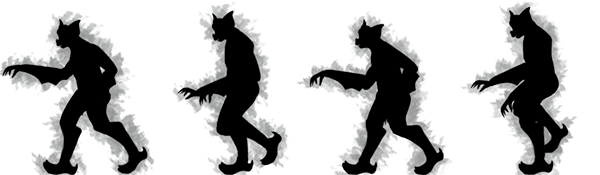
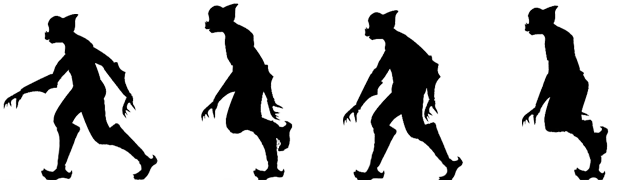
Nueva tira de enemigo

diff --git a/core/src/itesm/mx/whacamole/Enemigo.java b/core/src/itesm/mx/whacamole/Enemigo.java
@@ -42,7 +42,7 @@ public class Enemigo
         // Lee la textura como región
         TextureRegion texturaCompleta = new TextureRegion(textura);
         // La divide en frames de 16x32 (ver marioSprite.png)
-        TextureRegion[][] texturaPersonaje = texturaCompleta.split(150,175);
+        TextureRegion[][] texturaPersonaje = texturaCompleta.split(160,180);
         // Crea la animación con tiempo de 0.25 segundos entre frames.
         animacionCaminata = new Animation(0.25f,texturaPersonaje[0][1],
                 texturaPersonaje[0][2], texturaPersonaje[0][3]);
